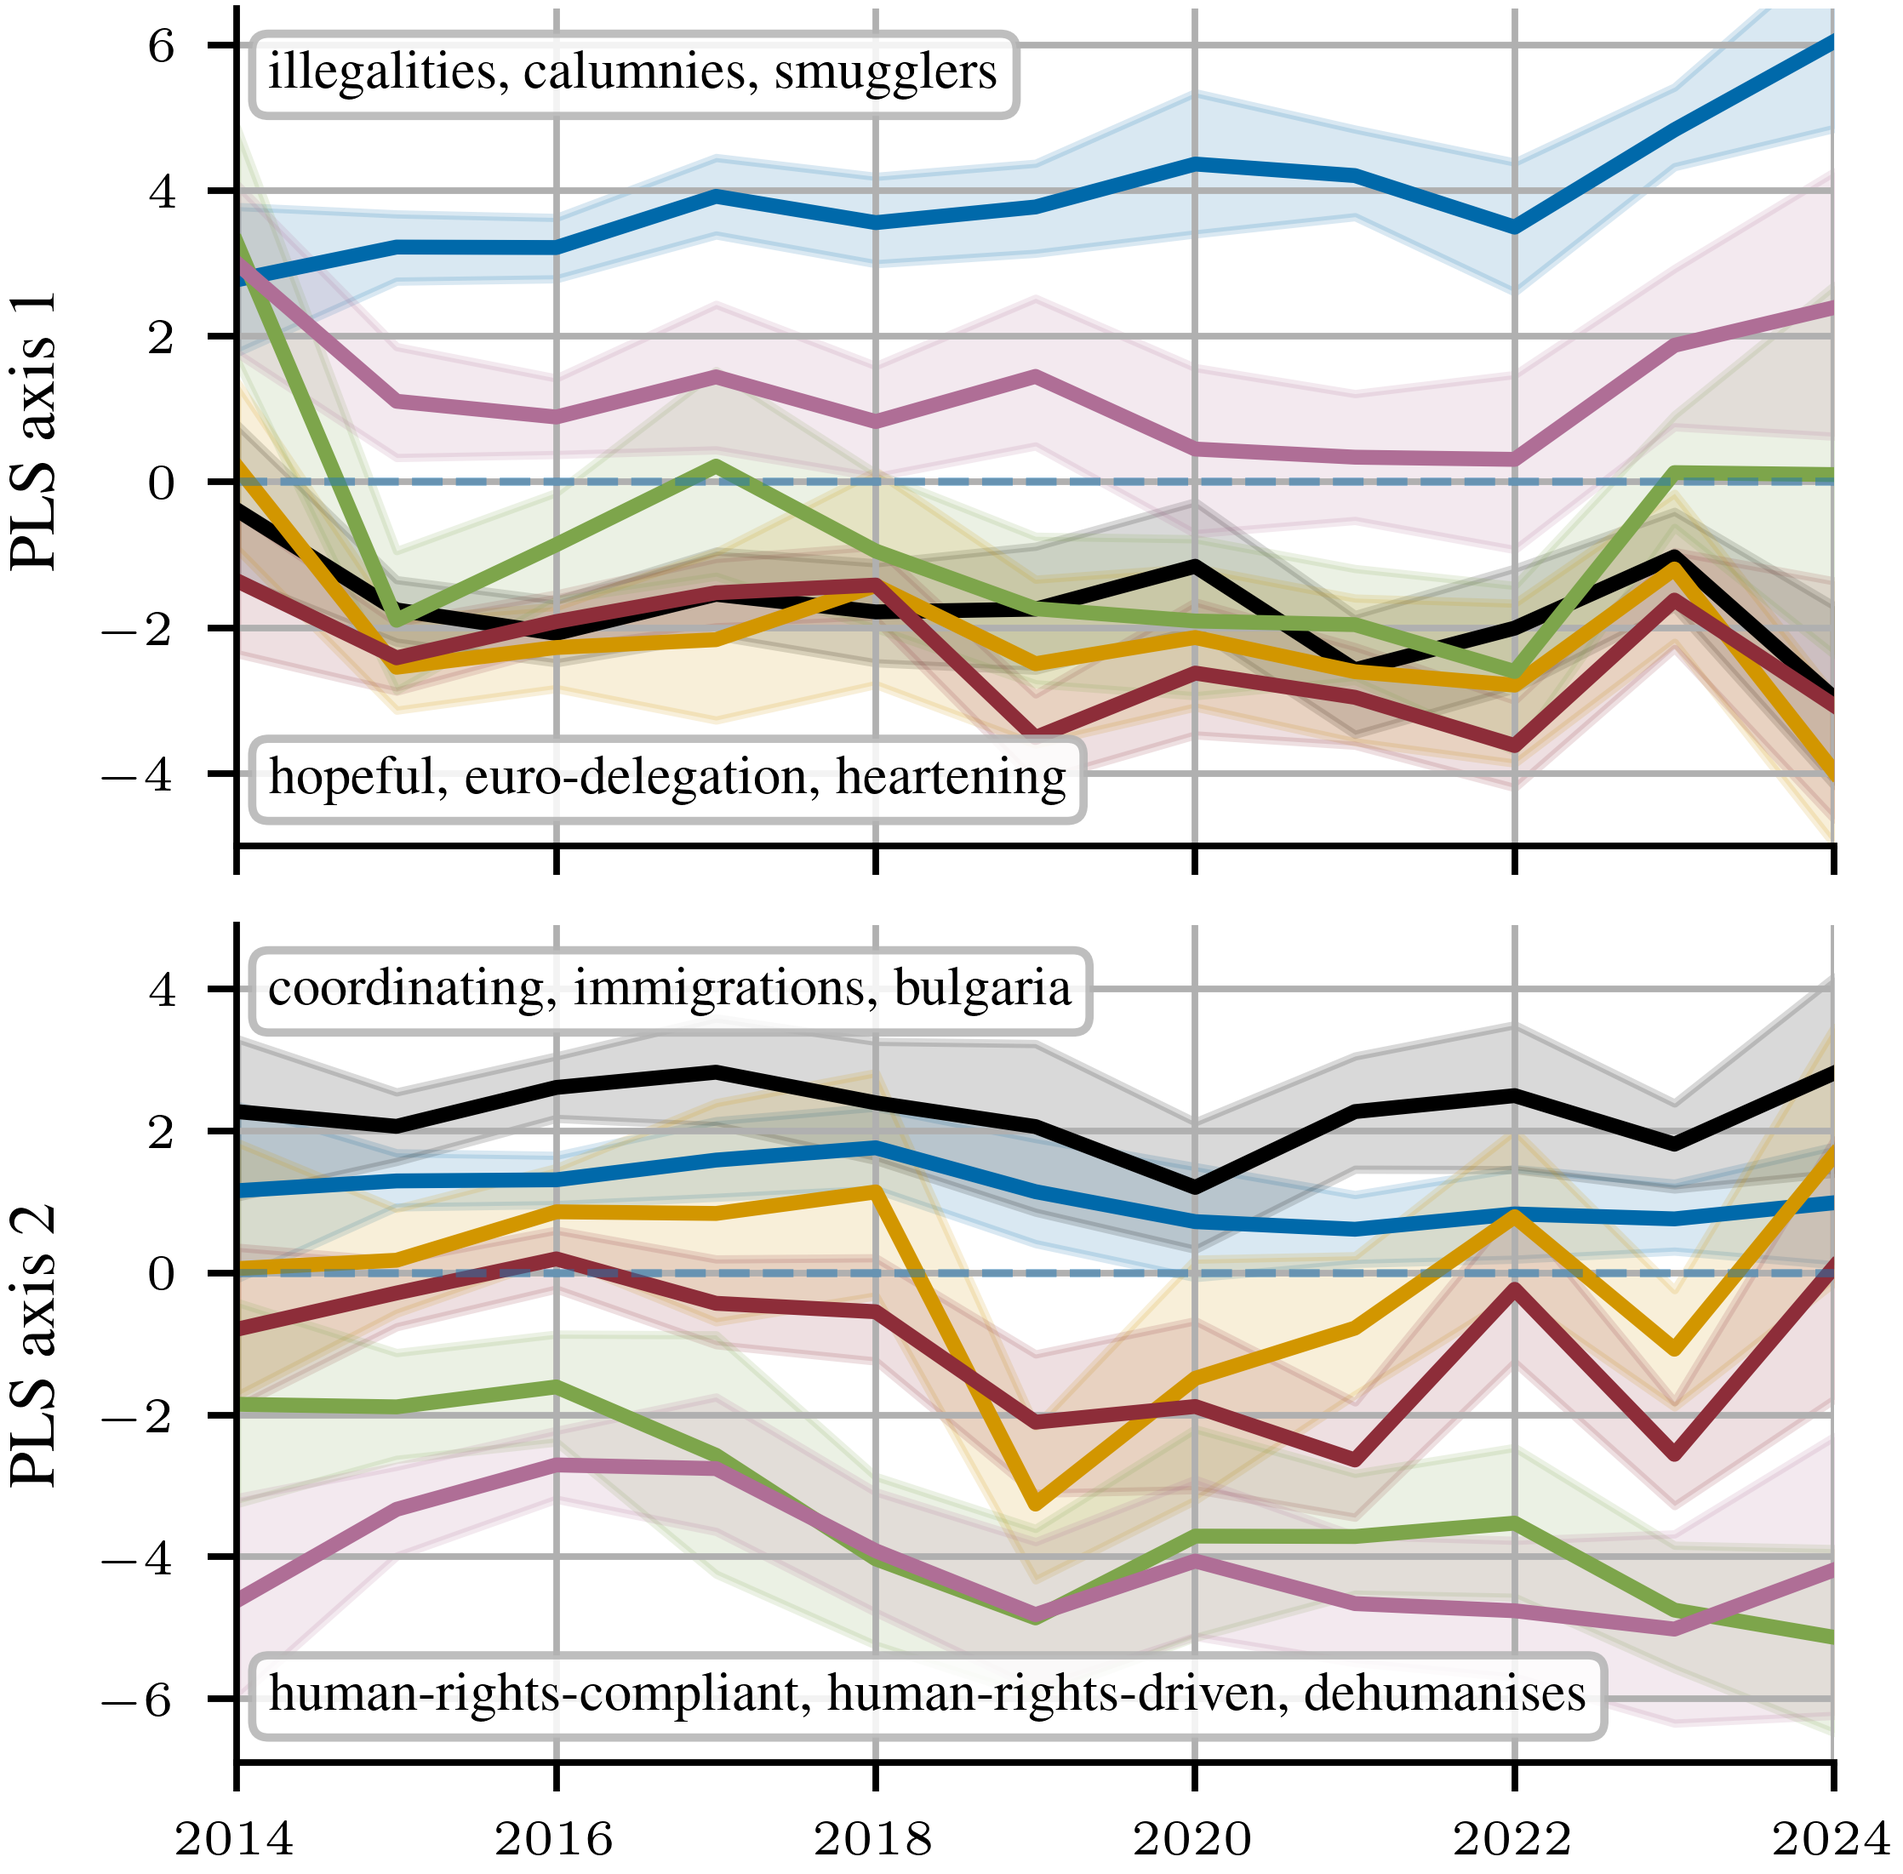
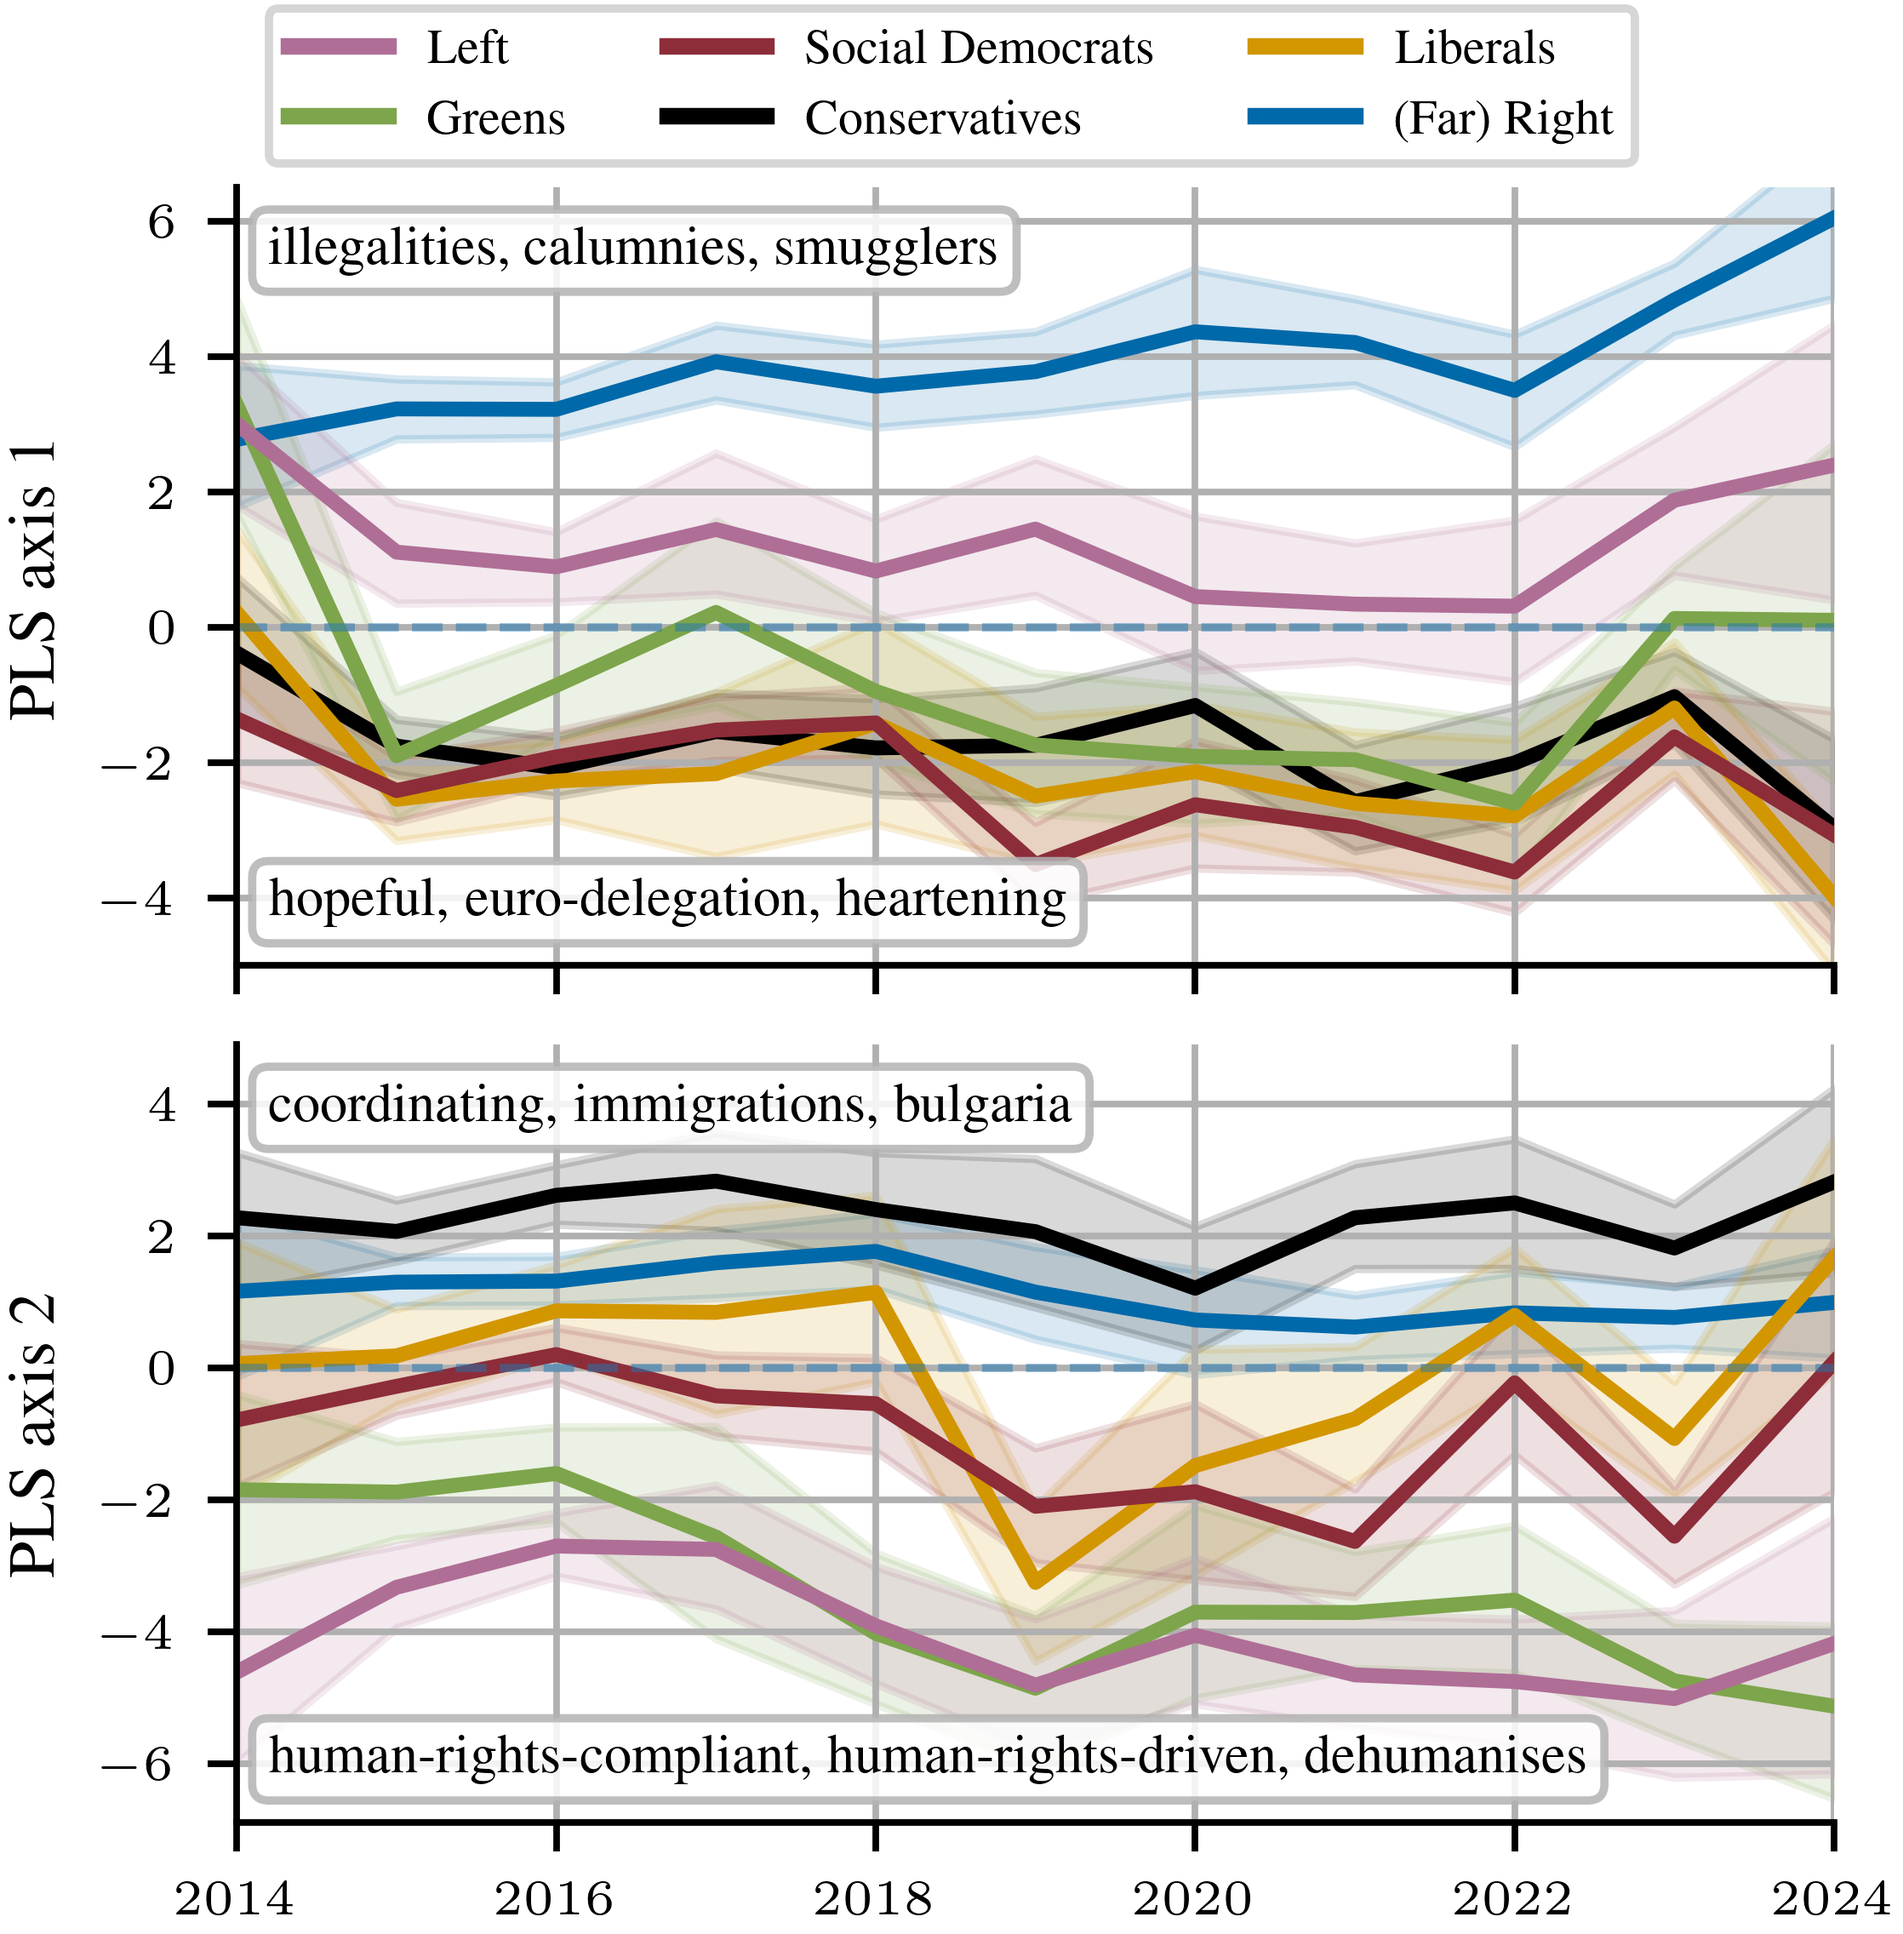
add legend to pls plot

diff --git a/report/sections/4_discussion/discussion.tex b/report/sections/4_discussion/discussion.tex
@@ -8,10 +8,8 @@ Our analysis of European Parliament speeches (2014 to 2024) reveal systematic di
 
 Far-right parties indicate active agenda-setting behavior by introducing migration into debates, particularly about economy and security. For other party blocs, this phenomenon is too rare to assert a defnite pattern and can partly be drawn to misclassifications of the LDA model. However, there are indications of a polar divide: Green and left parties tend to introduce migration to debates on humanitarian issues. Examining whether such a left-right distinction shapes where migration discourse is fed into the debate is a promising direction for further research.
 
-Dimensionality reduction via PLS reveals two largely interpretable axes that separate parties in semantic space. While the first axis is clearly interpretable, the positive direction of the second includes terms related to Eastern Europe, raising questions about its interpretability and meaningfulness. Although a definitive interpretation of the underlying political dimensions requires substantial domain knowledge, word associations and extreme speeches along each axis permit tentative conclusions. Despite the noisy nature of general-purpose embeddings, which likely contributes to blurred axis labels, the strong party separation along the axes supports cautious interpretation. We interpret the first PLS axis as a
+Dimensionality reduction via PLS reveals two largely interpretable axes separating parties in semantic space. The first axis is clearly interpretable, while the second is less distinct and characterized by extreme examples in positive direction referencing security concerns in Eastern Europe. Although a definitive interpretation of the underlying political dimensions requires substantial domain knowledge, word associations and extreme speeches along each axis permit tentative conclusions. Despite the noisy nature of general-purpose embeddings, the strong party separation along the axes supports cautious interpretation. We interpret the first PLS axis as a
 \verb|conciliatory| $\Leftrightarrow$ \verb|oppositional| discourse spectrum. The second axis is less distinct but likely reflects a \verb|moral| $\Leftrightarrow$ \verb|pragmatic-benefits| / \verb|security| dimension. Overall, these results indicate that PLS is a useful exploratory method for uncovering latent dimensions of political discourse in high-dimensional text embeddings.
-
-todo: what can we see? extreme-rights are different in first dimension, left and green especially in second dimension. 
 
 % old version: 
 % The resulting micro-averaged F1 score from leave-one-out cross-validation is $ 0.45 \pm 0.35$ (mean $ \pm$ std. accross validation folds).

diff --git a/report/sections/2_data_methods/methods/embeddings.tex b/report/sections/2_data_methods/methods/embeddings.tex
@@ -11,7 +11,7 @@ To best capture political orientation in the embeddings, we selected the final m
 
 Dimensionality reduction has been used to study ideological change over time and to recover latent political dimensions \citep{Rheault2020-mr}. % NOTE: I added that it was PCA because to me it was not really understandable - I hope it makes sense 
 Exploratory PCA showed that, although party affiliations is present, it is not dominant in the overall variance of the embedding space. 
-To identify a subspace in which political and ideological differences become more salient, we employ Partial Least Squares (PLS), which extracts directions maximally associated with party labels. To mitigate and quantify temporal bias, we excluded written speeches concentrated in 2015 and 2016 and % fit the PLS model on the remaining 5,433 observations, 
+To identify a subspace in which political and ideological differences become more salient, we employ Partial Least Squares (PLS), which extracts directions maximally associated with party labels. To mitigate and quantify temporal bias, we excluded written speeches concentrated in 2015 and 2016, fit the PLS model on the remaining 5,433 observations and 
 evaluate the model using a temporally adapted leave-one-out cross-validation strategy \citep{roberts_temporal_2017}.
 
 The prevalence of established migration-related rhetoric is assessed using semantic search. We use 30 migration narratives identified in a recent report by the European Commission’s Joint Research Centre \citep[p.130]{seiger_navigating_2025}, organized into four broader ``supernarratives.'' Each narrative was represented by a short descriptive sentence and embedded. % using the model’s built-in ``retrieval-query'' prompt. 

diff --git a/report/fig/fig3_pls.py b/report/fig/fig3_pls.py
@@ -112,8 +112,6 @@ def display_results(df: pd.DataFrame, model, axis: tuple[int], aggregated: pd.Da
     plot_pca_axis_development(df, 1, target_var, axis_labels_1, color_map, ax3)
     ax3.set_ylim(-6.9, 4.9)
 
-    # handles, labels = ax2.get_legend_handles_labels()
-    # labels = [LEGEND_BLOCK[label] for label in labels]
     from matplotlib.lines import Line2D
 
     legend_elements = [
@@ -123,11 +121,11 @@ def display_results(df: pd.DataFrame, model, axis: tuple[int], aggregated: pd.Da
     
     fig.legend(
         handles=legend_elements,
-        loc="lower center",
+        loc="upper center",
         ncol=len(legend_elements) // 2,
         frameon=True,
-        bbox_to_anchor=(0.5, -0.12)    
-        ).set_visible(False) # hide the legend in the hopes for a figure beside it explaining the colors
+        bbox_to_anchor=(0.5, 1.1)    
+        ) # hide the legend in the hopes for a figure beside it explaining the colors
 
     # fig.subplots_adjust(bottom=0.22)
 
@@ -138,7 +136,7 @@ def display_results(df: pd.DataFrame, model, axis: tuple[int], aggregated: pd.Da
 
 
 params = bundles.icml2024(nrows=2, ncols=1) # if you need multiple columns / rows, change in your script
-params.update({"figure.dpi": 350, "figure.figsize": (params["figure.figsize"][0], 3.2)})
+params.update({"figure.dpi": 350, "figure.figsize": (params["figure.figsize"][0], 3)})
 plt.rcParams.update(params)
 
 df['reduced_0'] = reduced[:, 0] 
